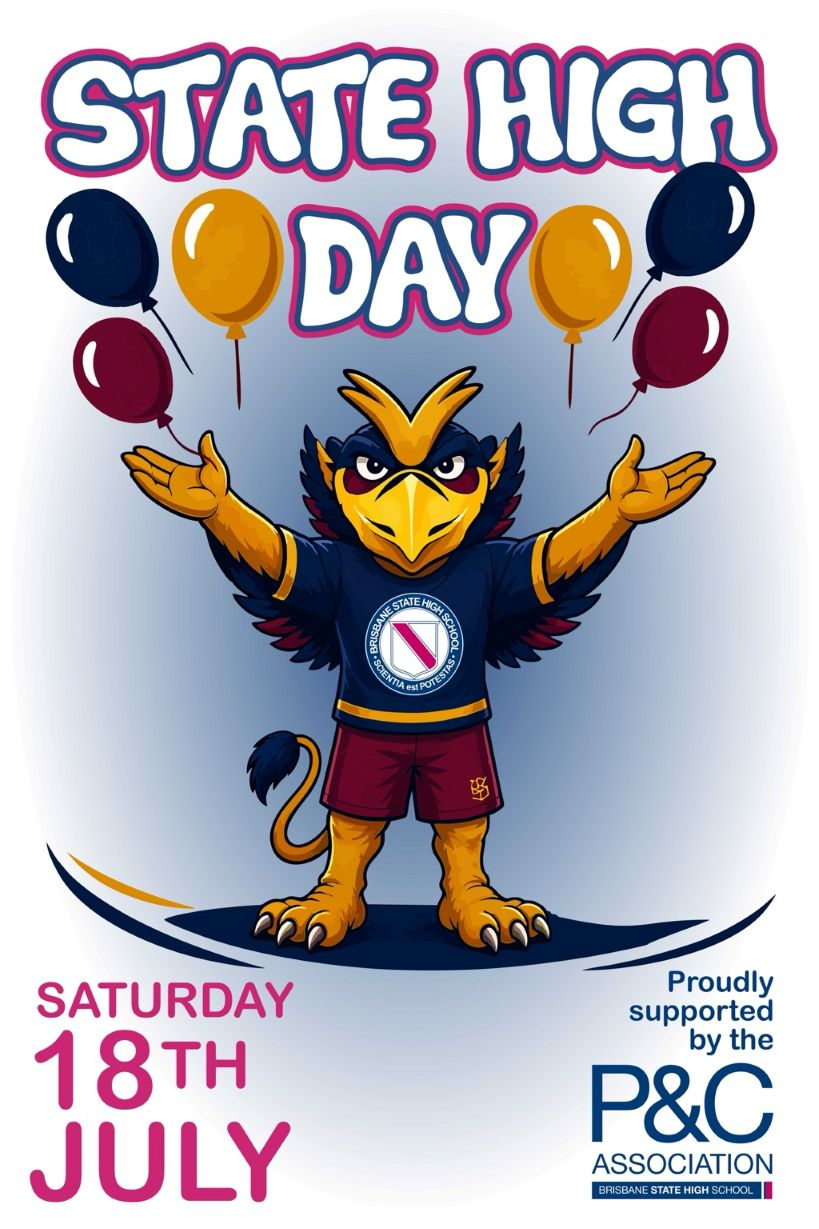
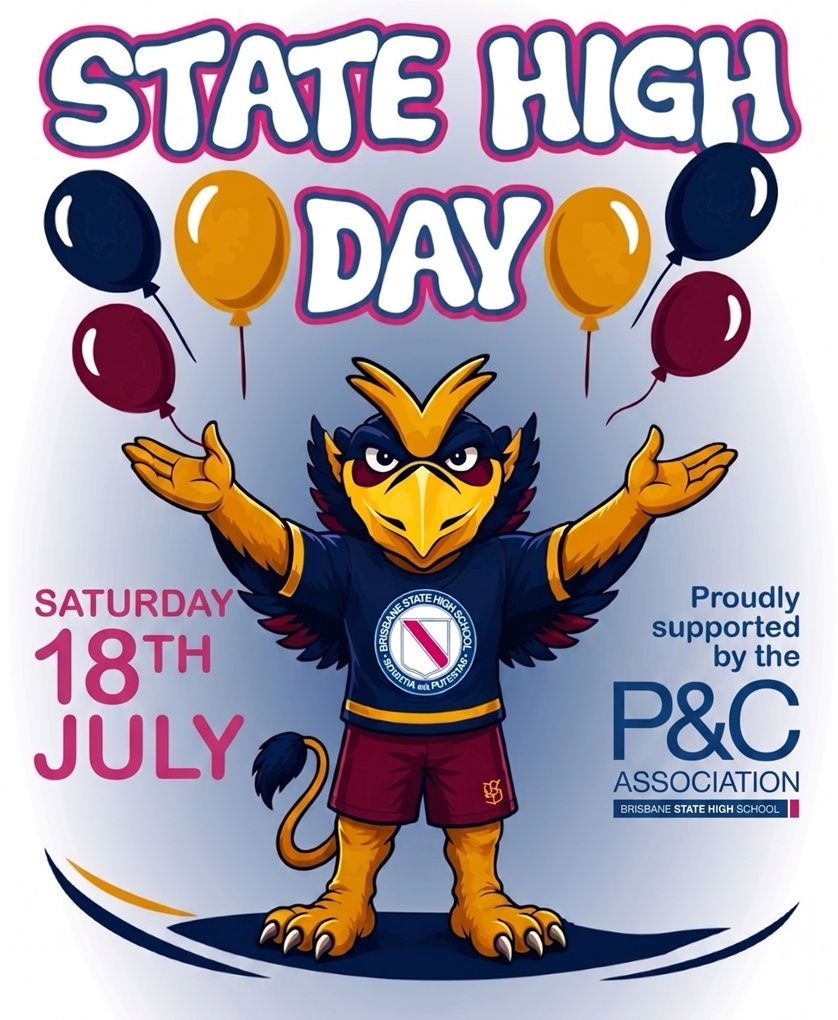
Fix dual-range slider overlapping thumbs bug and perform stylesheet cleanup

diff --git a/script.js b/script.js
@@ -175,6 +175,39 @@ document.addEventListener('DOMContentLoaded', () => {
         sliderStart.addEventListener('input', updateSlider);
         sliderEnd.addEventListener('input', updateSlider);
         
+        // Dynamic z-index handling to prevent overlapping thumbs blocking each other
+        function handleOverlay(e) {
+            const valStart = parseFloat(sliderStart.value);
+            const valEnd = parseFloat(sliderEnd.value);
+            
+            if (valEnd - valStart <= 1) {
+                const rect = sliderStart.getBoundingClientRect();
+                const clientX = e.clientX || (e.touches && e.touches[0].clientX);
+                if (!clientX) return;
+                const position = (clientX - rect.left) / rect.width;
+                const min = parseFloat(sliderStart.min);
+                const max = parseFloat(sliderStart.max);
+                const hoverValue = min + position * (max - min);
+                
+                if (Math.abs(hoverValue - valStart) < Math.abs(hoverValue - valEnd)) {
+                    sliderStart.style.zIndex = '4';
+                    sliderEnd.style.zIndex = '3';
+                } else {
+                    sliderEnd.style.zIndex = '4';
+                    sliderStart.style.zIndex = '3';
+                }
+            } else {
+                sliderStart.style.zIndex = '3';
+                sliderEnd.style.zIndex = '3';
+            }
+        }
+
+        const sliderContainer = document.querySelector('.time-slider-container');
+        if (sliderContainer) {
+            sliderContainer.addEventListener('mousemove', handleOverlay);
+            sliderContainer.addEventListener('touchstart', handleOverlay, { passive: true });
+        }
+        
         // Initial run
         updateSlider();
     }

diff --git a/style.css b/style.css
@@ -599,8 +599,8 @@ main {
 }
 
 .sponsor-card h4 {
-    font-size: 1.2rem;
-    margin-bottom: 1rem;
+    font-size: 1.05rem;
+    margin-bottom: 0.5rem;
     color: var(--col-primary);
 }
 
@@ -608,12 +608,6 @@ main {
     list-style: none;
     padding-left: 0;
     margin: 0;
-}
-
-.sponsor-card h4 {
-    font-size: 1.05rem;
-    margin-bottom: 0.5rem;
-    color: var(--col-primary);
 }
 
 .sponsor-tier-label {
@@ -646,29 +640,7 @@ main {
     }
 }
 
-.sponsor-logo {
-    width: 100%;
-    max-width: 150px;
-    aspect-ratio: 3/2;
-    display: flex;
-    align-items: center;
-    justify-content: center;
-    background: white;
-    padding: 1rem;
-    border-radius: 8px;
-    box-shadow: 0 2px 5px rgba(0,0,0,0.05);
-    transition: transform 0.3s ease;
-}
 
-.sponsor-logo:hover {
-    transform: scale(1.05);
-}
-
-.sponsor-logo img {
-    max-width: 100%;
-    max-height: 100%;
-    object-fit: contain;
-}
 
 /* ==== Footer ==== */
 footer {